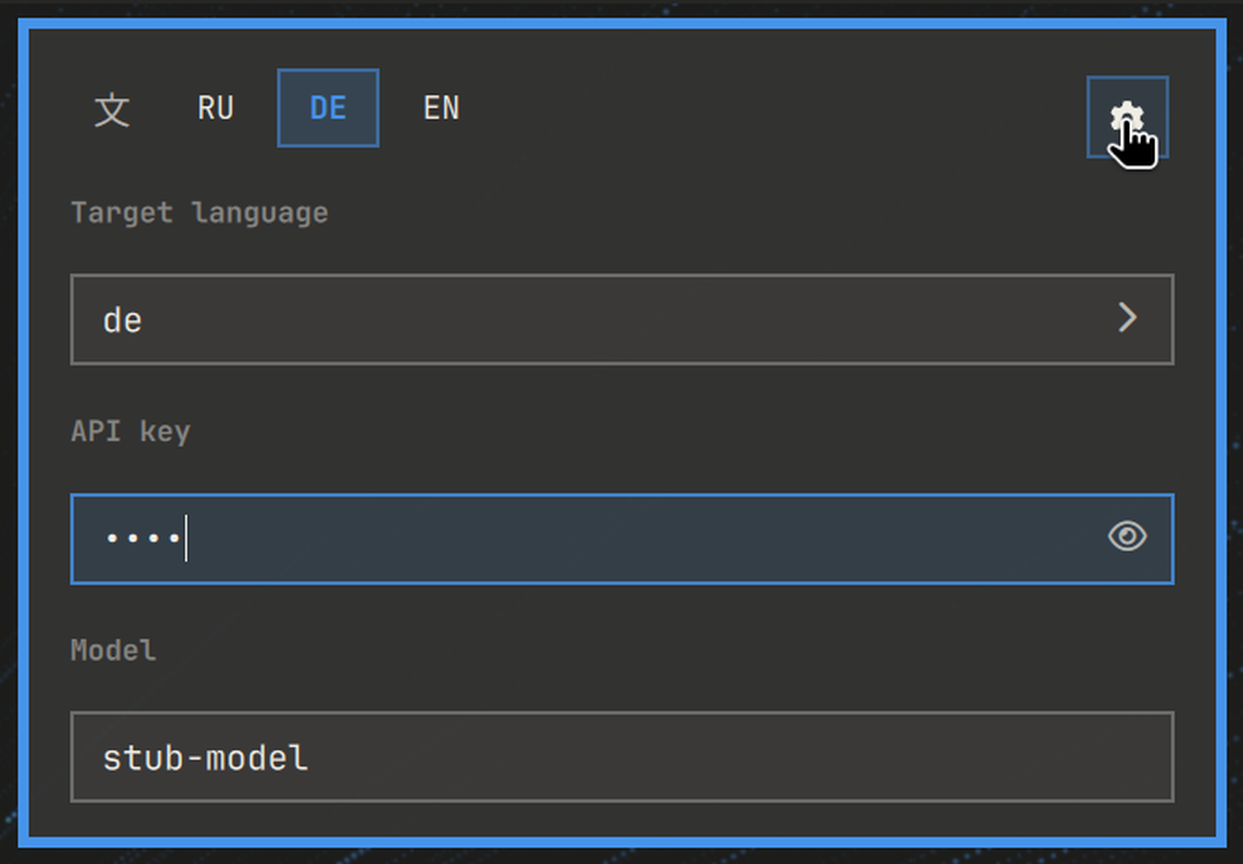
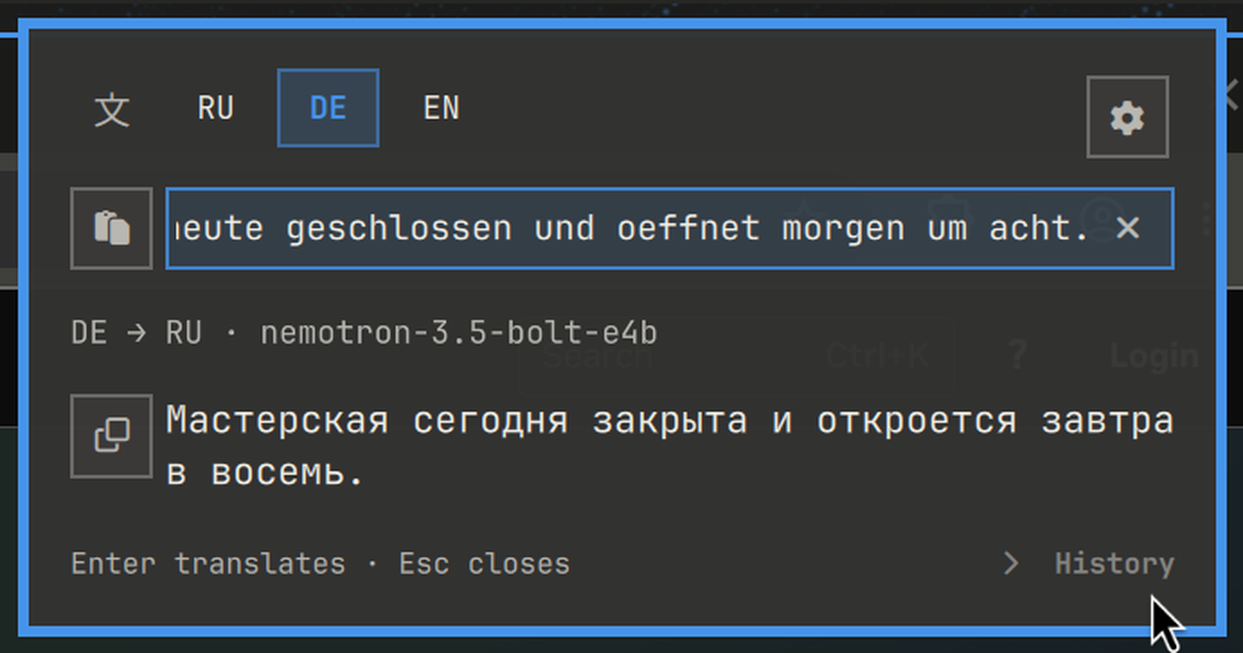
Add a clear action, a paste action for the key, and the main screen as the picture
The input line carries a cross that empties it, the same way the outer edge of
the panel does: same box as the gear, so both glyph centres sit on one line
(measured 610.5 and 610.0).

The API key field takes the clipboard through a glyph beside the eye, because
the compositor's paste bind does not reach a layer surface as Ctrl+V. A Super+V
handler stays for the case it does.

README and preview now show the main screen with a real translation.

diff --git a/Panel.qml b/Panel.qml
@@ -48,6 +48,7 @@ Panel {
   // The settings fields live inside the panel content, which the loaded panel
   // keeps in its own scope: root functions reach them through this signal.
   signal fillLanguage(string value)
+  signal fillKey(string value)
   property string languageQuery: ""
   readonly property var languageOptions: Model.findLanguages(root.languageQuery)
   // Ten rows are visible at once. The store keeps Model.HISTORY_LIMIT (20)
@@ -137,6 +138,21 @@ Panel {
     }
   }
 
+  // The API key field takes the clipboard here: the compositor's own paste key
+  // arrives as a global bind, and that is not what reaches a layer surface.
+  Process {
+    id: keyPasteReader
+    command: ["sh", "-c", "wl-paste --no-newline | head -c 8192"]
+    stdout: StdioCollector {
+      waitForEnd: true
+      onStreamFinished: {
+        var value = String(text || "").trim()
+        if (value === "") return
+        root.fillKey(value)
+      }
+    }
+  }
+
   Process {
     id: primaryReader
     command: ["sh", "-c", "wl-paste --primary --no-newline | head -c 8192"]
@@ -166,6 +182,17 @@ Panel {
     if (!content || !content.fieldItem) return
     content.fieldItem.forceActiveFocus()
     content.fieldItem.selectAll()
+  }
+
+  // Empties the line, the translation and the status: the panel back to its
+  // opening state without closing it.
+  function clearInput() {
+    root.setInput("")
+    root.outputText = ""
+    root.statusLine = ""
+    root.failed = false
+    root.copied = false
+    Qt.callLater(root.focusField)
   }
 
   function setInput(value) {
@@ -550,6 +577,10 @@ Panel {
         Connections {
           target: root
           function onFillLanguage(value) { languageField.text = value }
+          function onFillKey(value) {
+            keyField.text = value
+            root.saveConfig({ apiKey: value })
+          }
         }
 
         // ---- settings
@@ -691,7 +722,7 @@ Panel {
               id: keyField
               anchors.left: parent.left
               anchors.right: parent.right
-              rightPadding: root.iconSide + Style.spacing.controlPaddingX
+              rightPadding: 2 * root.iconSide + Style.spacing.controlPaddingX
               text: root.config.apiKey
               password: !root.showKey
               placeholderText: "nvapi-…"
@@ -699,6 +730,36 @@ Panel {
               font.family: root.contentFontFamily
               inputMethodHints: Qt.ImhNoPredictiveText
               onEditingFinished: root.saveConfig({ apiKey: text.trim() })
+
+              Keys.onPressed: function(event) {
+                if (event.key === Qt.Key_V && (event.modifiers & Qt.MetaModifier)) {
+                  keyPasteReader.running = true
+                  event.accepted = true
+                }
+              }
+            }
+
+            Text {
+              id: pasteKeyIcon
+              anchors.right: showKeyIcon.left
+              anchors.verticalCenter: keyField.verticalCenter
+              width: root.iconSide
+              height: root.fieldHeight
+              horizontalAlignment: Text.AlignHCenter
+              verticalAlignment: Text.AlignVCenter
+              text: "\uf0ea"
+              textFormat: Text.PlainText
+              color: pasteKeyHover.containsMouse ? root.contentForeground : root.dimForeground
+              font.family: root.contentFontFamily
+              font.pixelSize: Style.font.subtitle
+
+              MouseArea {
+                id: pasteKeyHover
+                anchors.fill: parent
+                hoverEnabled: true
+                cursorShape: Qt.PointingHandCursor
+                onClicked: keyPasteReader.running = true
+              }
             }
 
             Text {
@@ -835,6 +896,8 @@ Panel {
               anchors.right: parent.right
               height: root.fieldHeight
               leftPadding: Style.space(4)
+              // room for the clear glyph on the right
+              rightPadding: root.fieldHeight
               focus: true
               placeholderText: "Text to translate"
               foreground: root.contentForeground
@@ -849,6 +912,35 @@ Panel {
                   root.translate(inputField.text)
                   event.accepted = true
                 }
+              }
+            }
+
+            // Erase what the line holds. It appears only while there is text, so
+            // the row keeps one click target when the field is empty.
+            Text {
+              id: clearIcon
+              // same box and same inset as the gear, so both glyph centres land
+              // on one vertical line down the right side of the panel
+              anchors.right: inputField.right
+              anchors.rightMargin: Style.spacing.xxs
+              anchors.verticalCenter: inputField.verticalCenter
+              width: root.fieldHeight
+              height: root.fieldHeight
+              visible: inputField.text !== ""
+              horizontalAlignment: Text.AlignHCenter
+              verticalAlignment: Text.AlignVCenter
+              text: "\uf00d"
+              textFormat: Text.PlainText
+              color: clearHover.containsMouse ? root.contentForeground : root.dimForeground
+              font.family: root.contentFontFamily
+              font.pixelSize: Style.font.subtitle
+
+              MouseArea {
+                id: clearHover
+                anchors.fill: parent
+                hoverEnabled: true
+                cursorShape: Qt.PointingHandCursor
+                onClicked: root.clearInput()
               }
             }
           }
